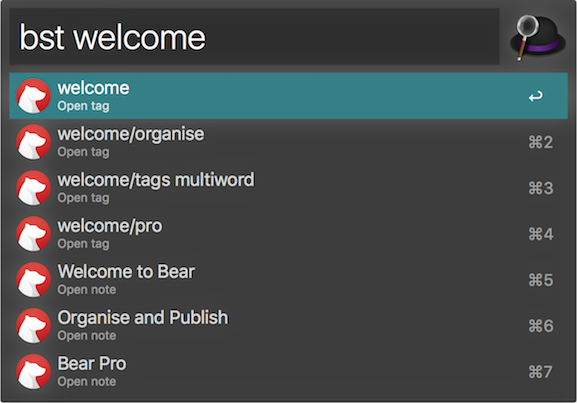
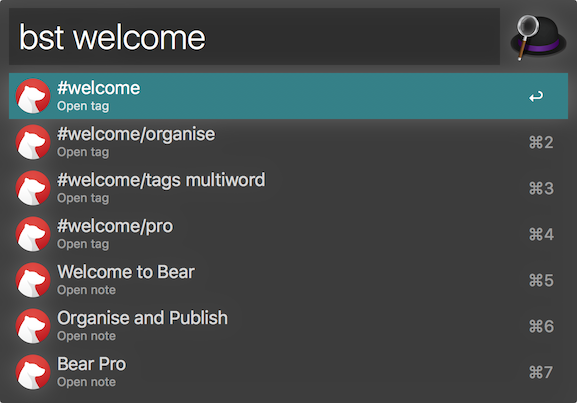
releasing 0.2.1

diff --git a/README.md b/README.md
@@ -3,7 +3,7 @@
 [Alfred 3 workflow](https://www.alfredapp.com/workflows/) to search and create notes in [Bear](http://www.bear-writer.com/). View it on [Packal](http://www.packal.org/workflow/bear), or [join in the discussion on the Alfred forums](https://www.alfredforum.com/topic/10403-bear-workflow-search-and-create-notes/).
 
 ## Install
-To install, download a [released alfred-bear workflow](https://github.com/chrisbro/alfred-bear/releases/download/0.2.0/alfred-bear.alfredworkflow) and double-click to open in Alfred 3. Easy-peasy.
+To install, download a [released alfred-bear workflow](https://github.com/chrisbro/alfred-bear/releases/download/0.2.1/alfred-bear.alfredworkflow) and double-click to open in Alfred 3. Easy-peasy.
 
 ## Searching and opening results 
 `bs` -- Search for a note by title and open it in Bear.
@@ -37,7 +37,7 @@ To install, download a [released alfred-bear workflow](https://github.com/chrisb
 
 ## Versions
 
-**NEXT VERSION**
+**0.2.1**
 * Added hashtag symbol to "Open Tag" list results to make it a little more obvious that it's a tag and not a note.
 
 **0.2.0**
